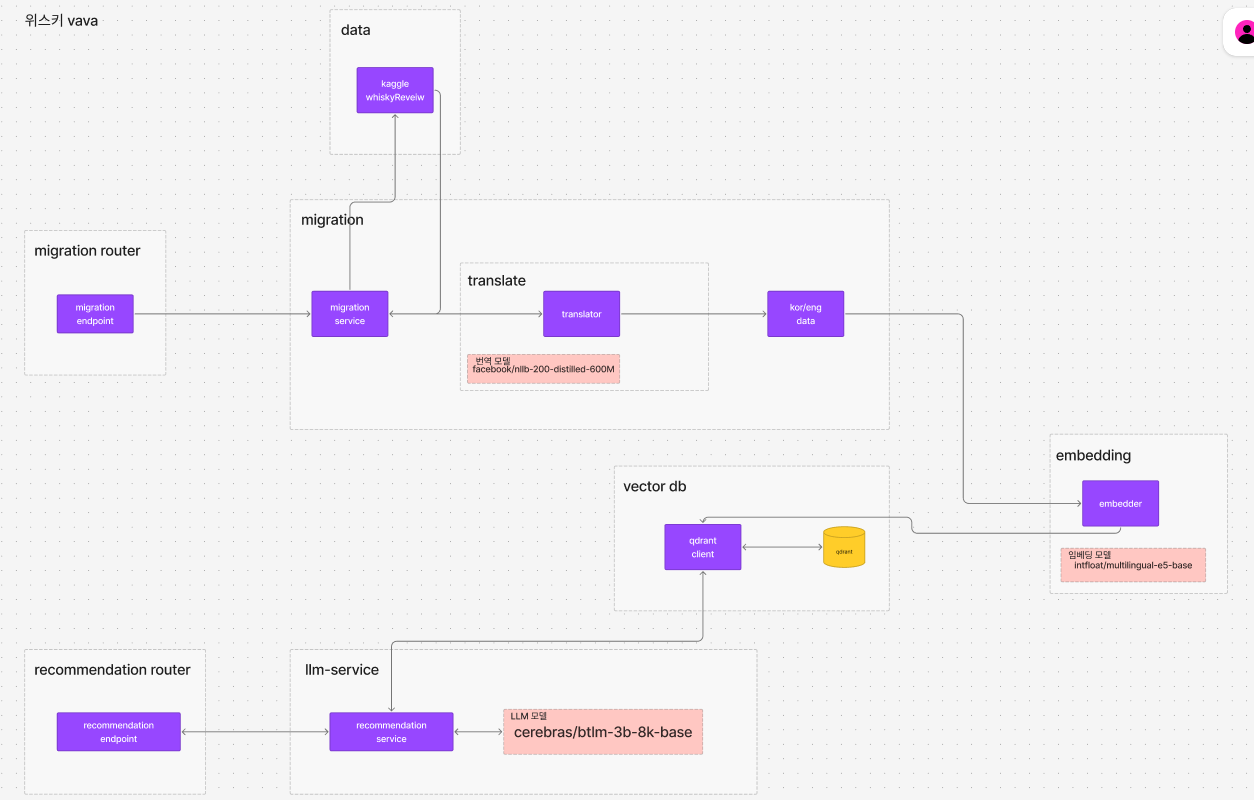
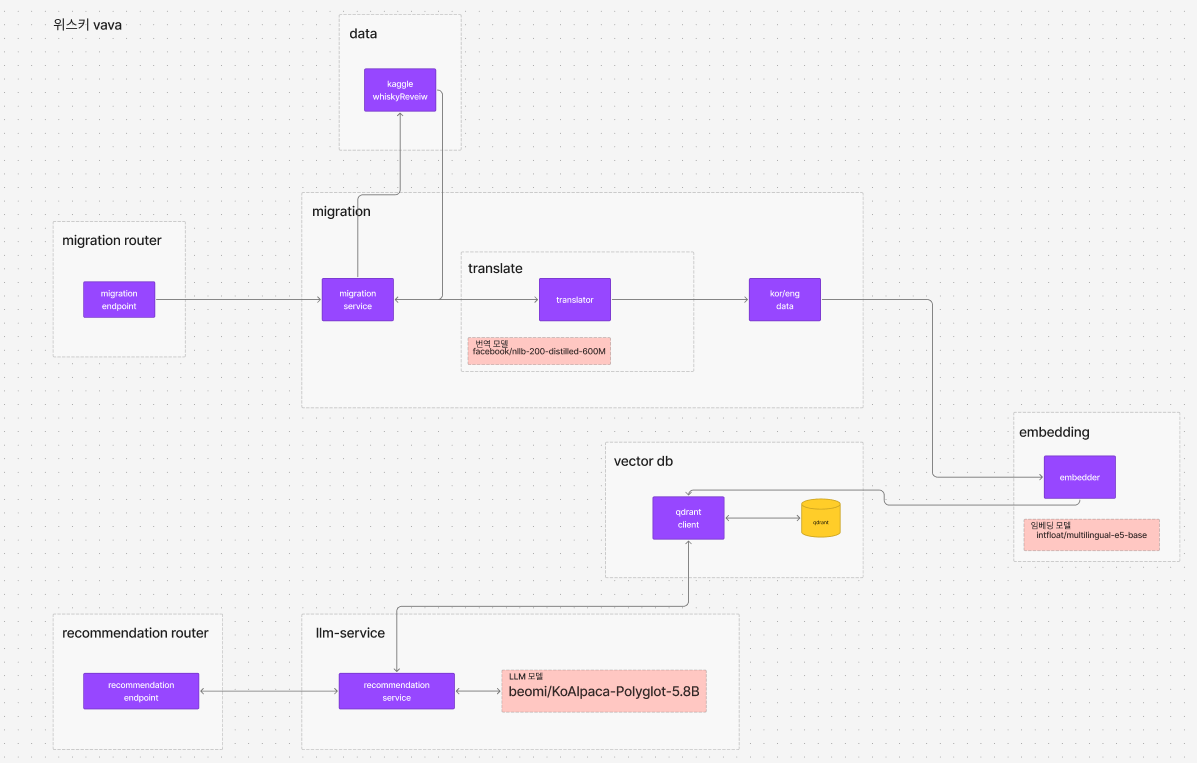
llm-service 모델 수정

diff --git a/LLM-service/back/app/llm/llm_handler.py b/LLM-service/back/app/llm/llm_handler.py
@@ -6,6 +6,8 @@ from langchain_community.llms.huggingface_pipeline import HuggingFacePipeline
 import asyncio
 import torch
 
+torch.backends.cudnn.benchmark = True  # 성능 최적화
+
 model_name = settings.llm_model
 
 print("CUDA 버전:", torch.version.cuda)
@@ -28,7 +30,7 @@ pipe = pipeline(
     "text-generation",
     model=model,
     tokenizer=tokenizer,
-    max_new_tokens=512,
+    max_new_tokens=256,
     temperature=0.5,
     do_sample=True
 )
@@ -37,15 +39,10 @@ llm = HuggingFacePipeline(pipeline=pipe)
 
 whisky_prompt_template = PromptTemplate.from_template(
     """
-    당신은 위스키와 술에 대해 잘 아는 전문가입니다.
-    아래 예시처럼 답변해주세요.
-    
-    예시:
-    질문: 조니워커 블루는 뭐야?
-    답변: 조니워커 블루는 고급 스카치 위스키로, 부드럽고 풍부한 맛을 자랑합니다.
-    
+    당신은 위스키 전문가입니다. 아래의 질문에 대해 친절하고 정확하게 답변해 주세요.
+
     질문: {question}
-    답변:
+    답변(한국어로, 3문장 이내로 요약):
 """
 )
 

diff --git a/LLM-service/back/config.py b/LLM-service/back/config.py
@@ -8,7 +8,7 @@ class Settings(BaseSettings):
     csv_path: str = "./data/scotch_review.csv"
     embedding_model: str = "intfloat/multilingual-e5-base"
     translation_model: str = "facebook/nllb-200-distilled-600M"
-    llm_model: str = "cerebras/btlm-3b-8k-base"
+    llm_model: str = "beomi/KoAlpaca-Polyglot-5.8B"
 
     class Config:
         env_file = ".env"

diff --git a/LLM-service/back/README.md b/LLM-service/back/README.md
@@ -23,7 +23,6 @@
 
 ## 프로젝트 아키텍처
 ![아키텍처도.png](%EC%95%84%ED%82%A4%ED%85%8D%EC%B2%98%EB%8F%84.png)
-
 ## 프로젝트 구조
 
 ```
@@ -52,21 +51,8 @@
 
 ### 설치
 
-1. 저장소 클론
-```bash
-git clone [repository-url]
-cd [repository-name]
-```
 
-2. 가상환경 생성 및 활성화
-```bash
-python -m venv venv
-source venv/bin/activate  # Linux/Mac
-# 또는
-.\venv\Scripts\activate  # Windows
-```
-
-3. 의존성 설치
+1. 의존성 설치
 ```bash
 pip install -r requirements.txt
 ```
@@ -76,11 +62,6 @@ pip install -r requirements.txt
 Docker Compose를 사용하여 실행 (qdrant):
 ```bash
 docker-compose up -d
-```
-
-또는 로컬에서 실행:
-```bash
-uvicorn main:app --reload
 ```
 
 ## API 엔드포인트
